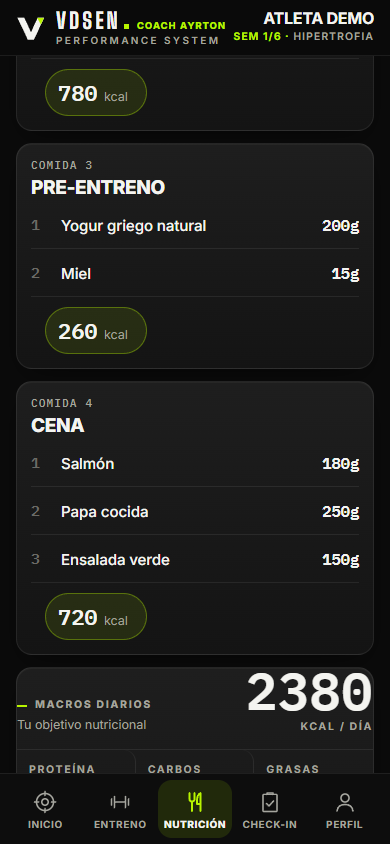
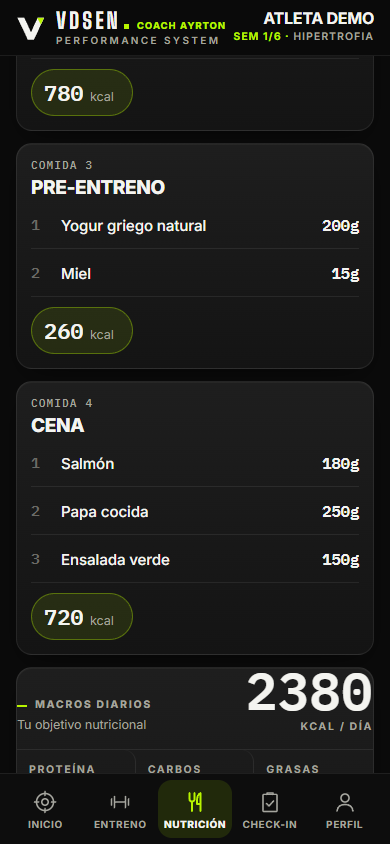
perf(client): build heavy below-fold Home widgets in idle time; measured Home switch 46.7ms -> 15.7ms; light-mode progress track

diff --git a/vdsen-cliente.html b/vdsen-cliente.html
@@ -1206,7 +1206,7 @@ body{font-feature-settings:'cv11','ss01';letter-spacing:-.003em}
 .stat{padding:14px 4px 12px}.stat:last-child{border-right:0}
 .stat-val{font-size:28px}
 .stat-lbl{font-size:10px;letter-spacing:.14em}
-.progress-bar{height:6px;border-radius:99px;background:var(--acero);overflow:hidden}
+.progress-bar{height:6px;border-radius:99px;background:var(--rule-strong);overflow:hidden}
 .pb-fill{border-radius:99px;background:var(--accent-fill);transition:width var(--dur-2) var(--ease)}
 .week-grid .wk{border-radius:12px}
 /* SRA: one compact, informational summary instead of one card per exercise */
@@ -4636,7 +4636,17 @@ function _muscleVolStatus(muscle) {
   return { vol: vol, mm: mm, status: status, col: col };
 }
 
-function buildVolumenWidget() {
+// T573: the two heaviest below-the-fold Home widgets (~27 ms of the ~44 ms Home render) are built after first paint, in idle time.
+// Same HTML, same data; the placeholder is replaced only if it is still attached (a newer render simply builds its own).
+function _lazyHomeWidget(kind, build) {
+  var id = 'lazyw_' + kind + '_' + (++_lazyWidgetSeq);
+  var run = function() { var el = document.getElementById(id); if (!el || !el.isConnected) return; try { el.outerHTML = build(); } catch (e) { el.remove(); } };
+  if (typeof requestIdleCallback === 'function') requestIdleCallback(run, { timeout: 1200 }); else setTimeout(run, 30);
+  return '<div id="' + id + '" class="lazy-widget" aria-busy="true"></div>';
+}
+var _lazyWidgetSeq = 0;
+function buildVolumenWidget() { return _lazyHomeWidget('vol', _buildVolumenWidgetNow); }
+function _buildVolumenWidgetNow() {
   if (!PLAN || typeof MEV_MRV_BY_MUSCLE === 'undefined') return '';
   var order = ['pectoral','dorsal_ancho','trapecio_medio','delt_anterior','delt_lateral','delt_posterior','biceps','braquial','triceps','cuadriceps','isquios','gluteo_mayor','gluteo_medio','gastrocnemio','soleo','erectores','recto_abdominal','oblicuos','serrato'];
   var rows = '';
@@ -4669,7 +4679,8 @@ function buildVolumenWidget() {
 // principal según su estado MEV/MRV de la semana — misma clasificación que la tabla
 // de barras, en formato visual. Los grupos secundarios (delt lateral/posterior, glúteo
 // medio, sóleo, braquial, serrato) quedan solo en la tabla por simplicidad del dibujo.
-function buildBodyMapWidget() {
+function buildBodyMapWidget() { return _lazyHomeWidget('map', _buildBodyMapWidgetNow); }
+function _buildBodyMapWidgetNow() {
   if (!PLAN || typeof MEV_MRV_BY_MUSCLE === 'undefined') return '';
   var mapped = ['pectoral','delt_anterior','biceps','recto_abdominal','oblicuos','cuadriceps','dorsal_ancho','trapecio_medio','triceps','erectores','gluteo_mayor','isquios','gastrocnemio'];
   var status = {};

diff --git a/docs/t573-overnight-report.md b/docs/t573-overnight-report.md
@@ -9,3 +9,9 @@ Base canónica: `b782f70268e4f18633f542e3abdc12d8733e9d1d` · `main`: `f6596ba52
 - Capa "UI 3.0" (tokens de marca Lima #B7F400 / Gris / Acero / Detalle, Inter + IBM Plex Mono, superficies redondeadas, navegación inferior con estado activo claro, entradas de serie más grandes, retroalimentación táctil con `prefers-reduced-motion`).
 - Auditoría automática por ancho: sin desbordamiento horizontal ni objetivos táctiles < 40 px en las 7 pantallas capturadas.
 - AGENTS.md prohíbe claves de cuenta de servicio ⇒ el despliegue hospedado del motor sólo puede usar identidad federada (WIF/OIDC).
+
+## Checkpoint 2 — ~06:45 UTC
+- PR #63 (visual) abierta; PR #64 (docs hospedado) abierta.
+- Rendimiento medido (Playwright, mismo equipo/sesión, mediana de 7, `scripts/t573-perf-measure.cjs`, datos en `docs/t573-perf/`): cambio de pestaña a Inicio **46,7 ms → 15,7 ms** (los dos widgets más pesados bajo el pliegue, ~27 ms, se construyen tras el primer pintado en idle; mismo HTML y datos). Resto de pestañas sin diferencias fuera del ruido (±1 ms). Es una medición de laboratorio, no un porcentaje de campo.
+- Hospedado en Vercel: BLOQUEADO (403 al crear proyecto; ver `docs/T573_HOSTED_STAGING.md`). Evidencia hospedada: Preview sin credenciales → 503 `RUNTIME_NOT_CONFIGURED`.
+- Modo claro revisado (barra de progreso corregida).
